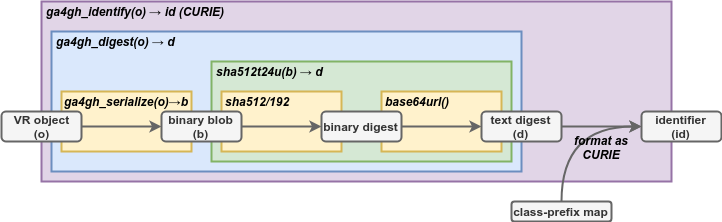
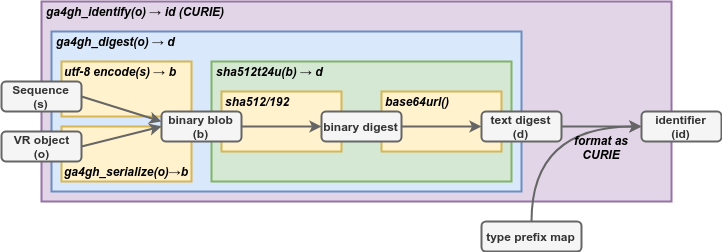
Closes #135: Highlighted requirement that sequence location objects must be based on ga4gh sequence ids

diff --git a/docs/source/impl-guide/computed_identifier.rst b/docs/source/impl-guide/computed_identifier.rst
@@ -26,10 +26,14 @@ makes it easier for distributed groups to share data.
 
 A VR Computed Identifier for a VR concept is computed as follows:
 
-* if the object is a :ref:`sequence`, encode using UTF-8
-* if the object is an :ref:`allele`, :ref:`normalize <normalization>` it
-* :ref:`Serialize the object <digest-serialization>` into binary data.
+* If the object is an :ref:`allele`, :ref:`normalize <normalization>` it.
+
+* Generate binary data to digest. If the object is a :ref:`sequence`
+  string, encode it using UTF-8.  Otherwise, serialize the object
+  using :ref:`Digest Serialization <digest-serialization>`.
+
 * :ref:`Generate a truncated digest <truncated-digest>` from the binary data.
+
 * :ref:`Construct an identifier <identify>` based on the digest and object type.
 
 The following diagram depicts the operations necessary to generate a
@@ -57,9 +61,6 @@ Requirements
 
 Implementations MUST adhere to the following requirements:
 
-* The VR Computed Identifier algorithm applies only to *identifiable*
-  objects, that is, objects with an `id` property.
-
 * The VR Computed Identifier is NOT defined if used with any other
   normalization, serialization, or digest mechanism to generate a
   GA4GH Computed Identifier.
@@ -67,10 +68,13 @@ Implementations MUST adhere to the following requirements:
 * VR Computed Identifiers are defined only when all nested objects are
   identified with ``ga4gh`` identifiers.  Generating VR identifiers
   using objects referenced within any other namespace is not compliant
-  with this specification. In particular, it is not compliant to
-  generate VR identifiers using sequences referenced with RefSeq,
-  Ensembl, or other accession outside the `ga4gh`` namespace.
+  with this specification. 
 
+.. important:: The above requirement means that *sequences must be
+               identified with GA4GH computed identifiers* based on
+               the sequence digest.  Implementations that use other
+               sequence identifiers are NOT compliant with this
+               specification.
 
 
 .. _digest-serialization:
@@ -112,7 +116,7 @@ If the object is a composite VR object, implementations MUST:
     * replace nested identifiable objects (i.e., objects that have id
       properties) with their corresponding *digests*
     * order arrays of digests and ids by Unicode Character Set values
-    * filter out id fields
+    * filter out fields that start with underscore (e.g., `_digest`)
     * filter out fields with null values
 
 The second step is to JSON serialize the message content with the
